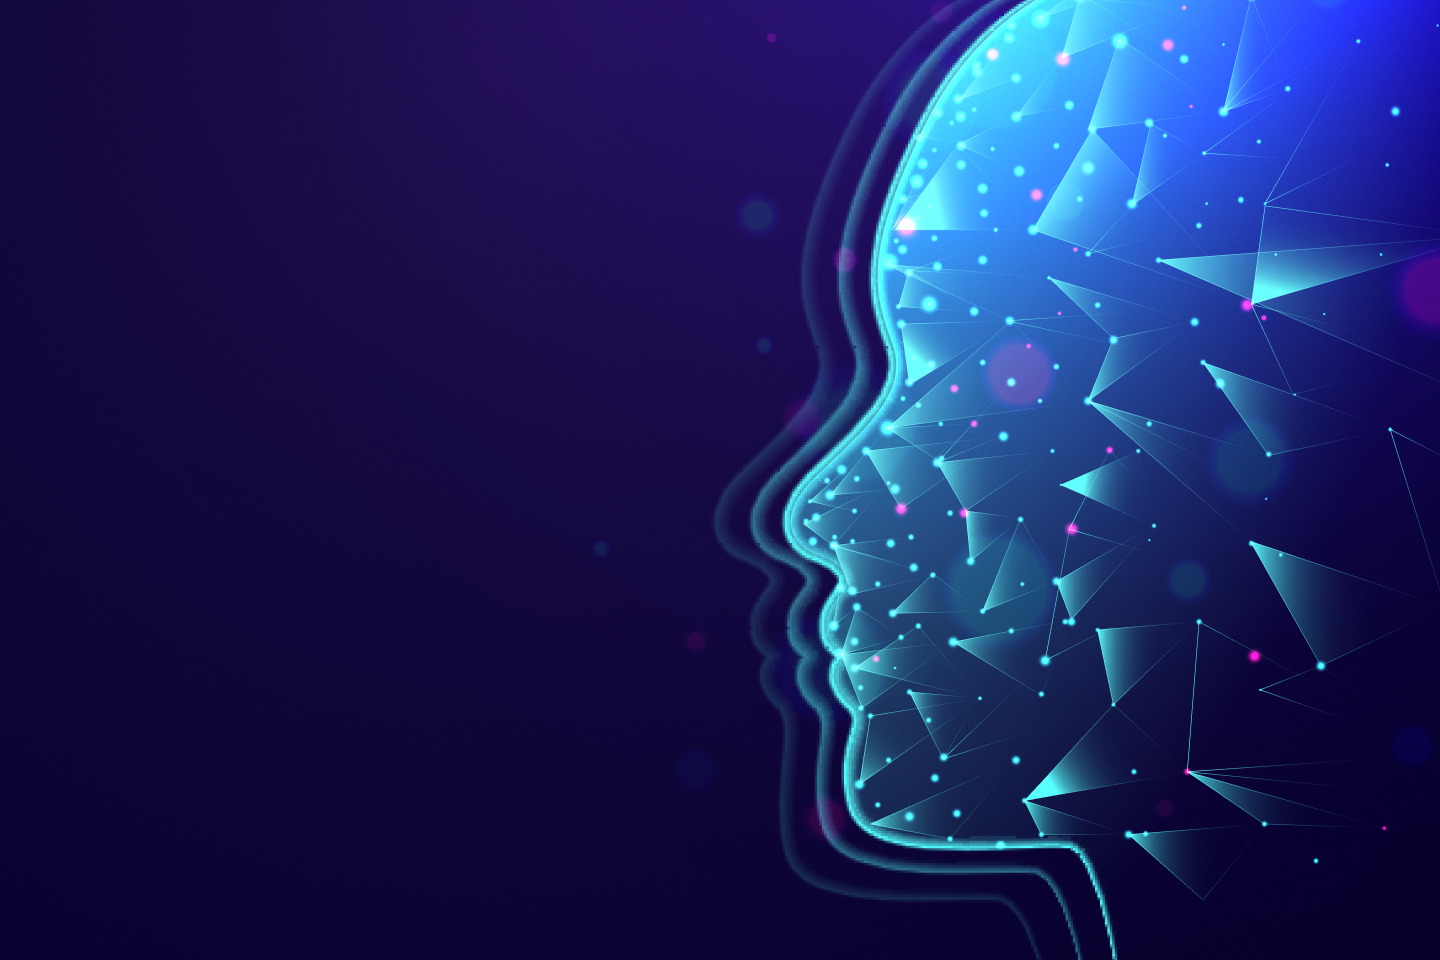
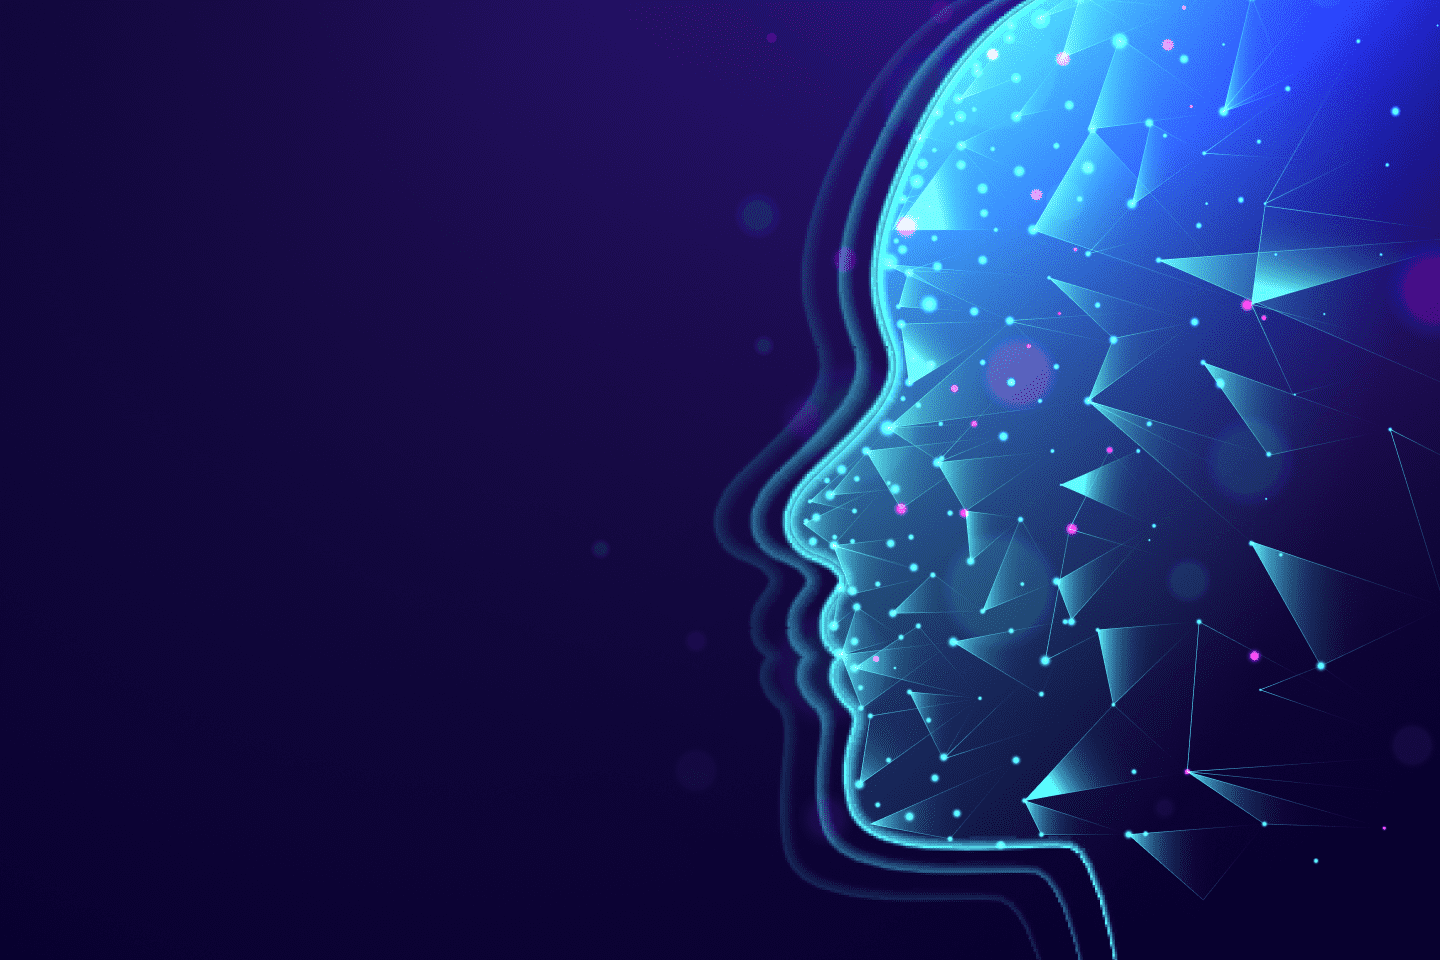
reduce image size + changed description

diff --git a/components/main/HeroSection.jsx b/components/main/HeroSection.jsx
@@ -27,7 +27,7 @@ const HeroSection = () => {
                         </h1>
 
                         <p className="mt-4  sm:text-xl/relaxed text-cg-white">
-                            Cognozire is a cutting-edge consultancy specializing in the creation and application of machine learning solutions for individuals and enterprises. In today's digital era, we understand the paramount importance of data. Therefore, we are dedicated to providing unparalleled support, leveraging your data to its fullest potential.
+                            Cognozire is a forward-thinking and inventive consulting and product development firm specializing in crafting cutting-edge artificial intelligence solutions tailored to meet the distinct requirements of individuals and businesses.
                         </p>
 
                         <div className="mt-8 flex flex-wrap gap-4 text-center">

diff --git a/components/main/Footer.jsx b/components/main/Footer.jsx
@@ -20,7 +20,7 @@ const Footer = () => {
                     </Link>
                     <div className="mt-6 ">
                         <p className="text-sm text-gray-800">
-                        Cognozire is a cutting-edge consultancy specializing in the creation and application of machine learning solutions for individuals and enterprises. In today's digital era, we understand the paramount importance of data. Therefore, we are dedicated to providing unparalleled support, leveraging your data to its fullest potential.
+                        At Cognozire, we are driven by a passion for reshaping the future through AI innovation, guiding both individuals and businesses on a transformative path toward unprecedented success and growth.
                         </p>
                     </div>
                 </div>
